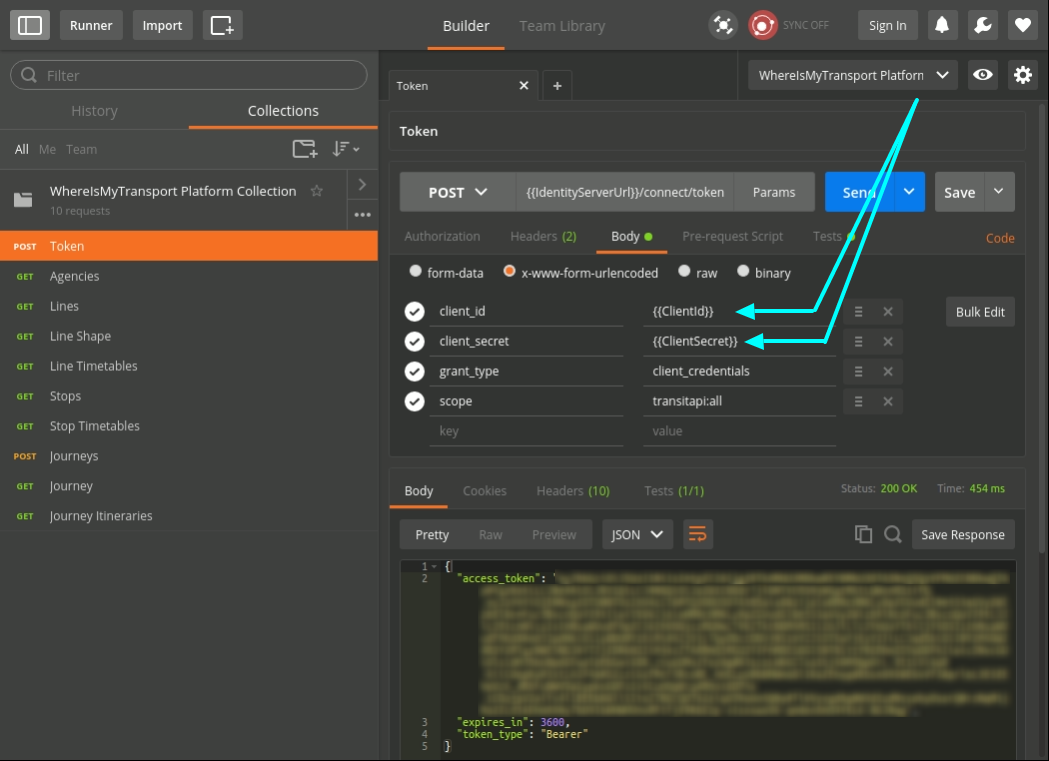
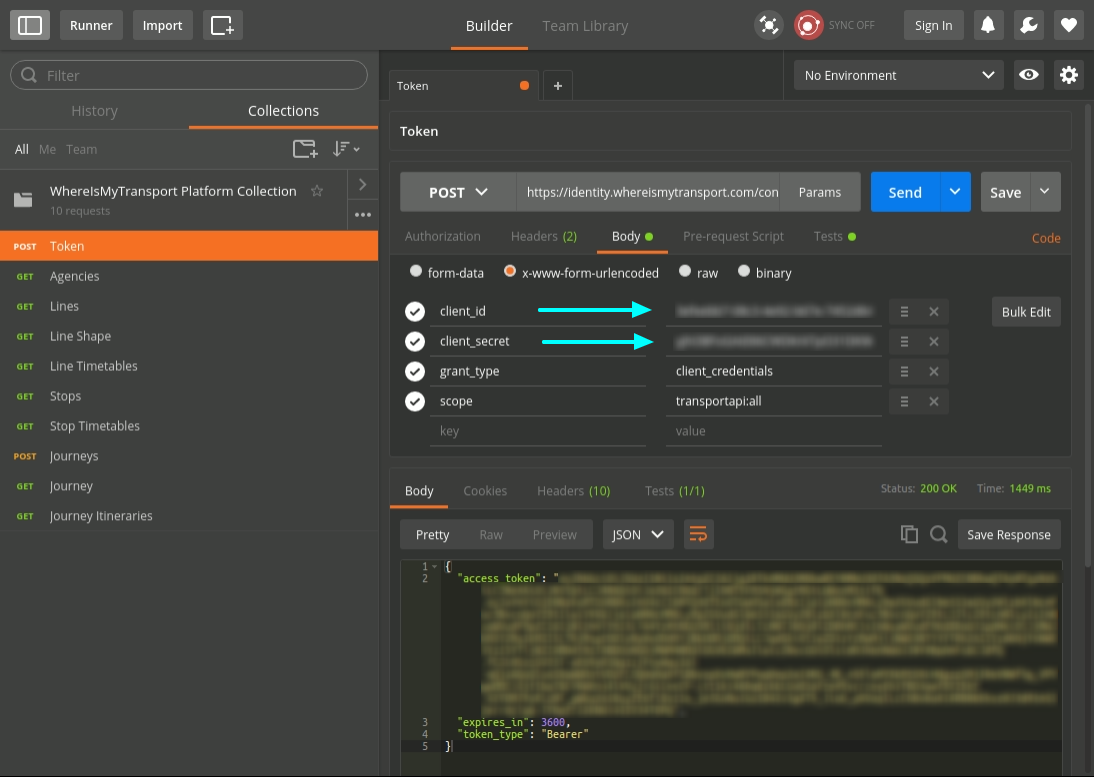
updated Postman docs according to feedback... updated screenshots

diff --git a/tapi/postman/README.md b/tapi/postman/README.md
@@ -53,4 +53,6 @@ To do this you need to do the following:
 3. From Postman, get a token, with the updated credentials, using the first API call in the collection, i.e. "**POST** token". You should see a success response, along with a BearerToken response. This is automatically saved in the postman environment variables, and at this point you are authenticated to connect to the platform, until the token expires.
     ![](postman_5_token.png)
 
-4. To use the token for the other API calls, specify the token as a header with `Authorization: Bearer {token}`. For a complete set of the API's endpoints, please see the full [documentation](https://developer.whereismytransport.com/documentation).
+4. To use the token for the other API calls, specify the token as a header with `Authorization: Bearer {token}`. For a complete set of the API's endpoints, please see the full [documentation](https://developer.whereismytransport.com/documentation). Below is an example of how to retrieve a list of agencies using the bearer token.
+    ![](postman_6_agencies.png)
+
